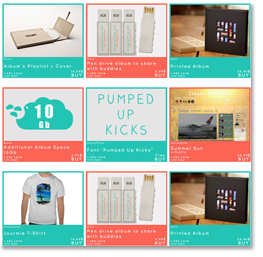
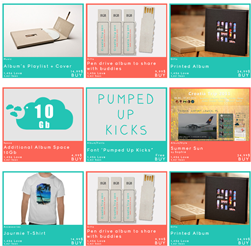
edit, delete album, some layout fixes, search box on index

diff --git a/app/assets/stylesheets/static_sites.css.scss b/app/assets/stylesheets/static_sites.css.scss
@@ -1,4 +1,5 @@
 @import "variables";
+@import 'twitter/bootstrap/mixins';
 
 #home-wrapper {
   background: url('home_background.png') no-repeat center;
@@ -16,6 +17,7 @@
 }
 
 #home-teaser {
+  padding-top: 40px;
   p {
     letter-spacing: 8px;
     font-size: 40px;
@@ -46,8 +48,8 @@
 .home-thumbnail {
   text-align: left;
   display: inline-block;
-  margin: 10px 45px;
-  width: 240px;
+  margin: 10px 25px;
+  width: 270px;
   &:last-child {
     margin-right: 0;
   }
@@ -63,11 +65,13 @@
     background: transparent no-repeat center top;
     width: 269px;
     height: 254px;
+    background-size: 269px 254px;
+    @include box-shadow(2px 2px 3px rgba(0,0,0,.2));
     &.album {
-      background-image: url('album_mini.png');
+      background-image: url('album_mini.jpg');
     }
     &.content {
-      background-image: url('content_mini.png');
+      background-image: url('content_mini.jpg');
     }
     &.shop {
       background-image: url('shop_mini.png');

diff --git a/app/assets/stylesheets/albums.css.scss b/app/assets/stylesheets/albums.css.scss
@@ -230,6 +230,11 @@ div.dotted {
   height: 170px;
   margin-bottom: 20px;
   position: relative;
+  .album-buttons {
+    position: absolute;
+    top: 10px;
+    right: 10px;
+  }
   .album-title, .album-title a {
     font-size: 60px;
     text-shadow: 2px 2px 0 rgba(100,100,100,0.2);
@@ -316,6 +321,7 @@ div.dotted {
   width: 970px;
   .carousel-control {
     top: 45%;
+    line-height: 35px;
   }
   .album-title {
     position: absolute;
@@ -395,6 +401,10 @@ div.dotted {
     border: 0;
    }
   .folder-area {
+    cursor: pointer;
+    *{
+      cursor: pointer;
+    }
     background: transparent url('clouds/add_images.png') no-repeat center;
     input[type=file] {
       position: absolute;

diff --git a/app/assets/stylesheets/bootstrap_and_overrides.css.scss b/app/assets/stylesheets/bootstrap_and_overrides.css.scss
@@ -16,6 +16,18 @@ legend {
 }
 
 .navbar {
+  .search-query {
+    height: 25px;
+    position: relative;
+    top: 3px;
+    margin-left: 170px;
+    padding-top: 8px;
+    text-shadow: none;
+    &:focus {
+      text-shadow: none !important;
+      background: $jourmieLightGray !important;
+    }
+  }
   .dropdown-menu {
     background: #424242;
   }

diff --git a/app/assets/stylesheets/variables.css.scss b/app/assets/stylesheets/variables.css.scss
@@ -1,3 +1,4 @@
+$jourmieLightGray: #515151;
 $jourmieDarkGray: #424242;
 $jourmieMiddleGray: #47423e;
 $jourmieTurquoise: #23c4b4;

diff --git a/app/controllers/albums_controller.rb b/app/controllers/albums_controller.rb
@@ -54,6 +54,11 @@ class AlbumsController < ApplicationController
       format.json
     end
   end
+
+  def destroy
+    @album.delete
+    redirect_to profile_albums_url(current_user.profile.permalink)
+  end
   
   def s3_upload_form
     render "s3_upload_form", :layout => false
